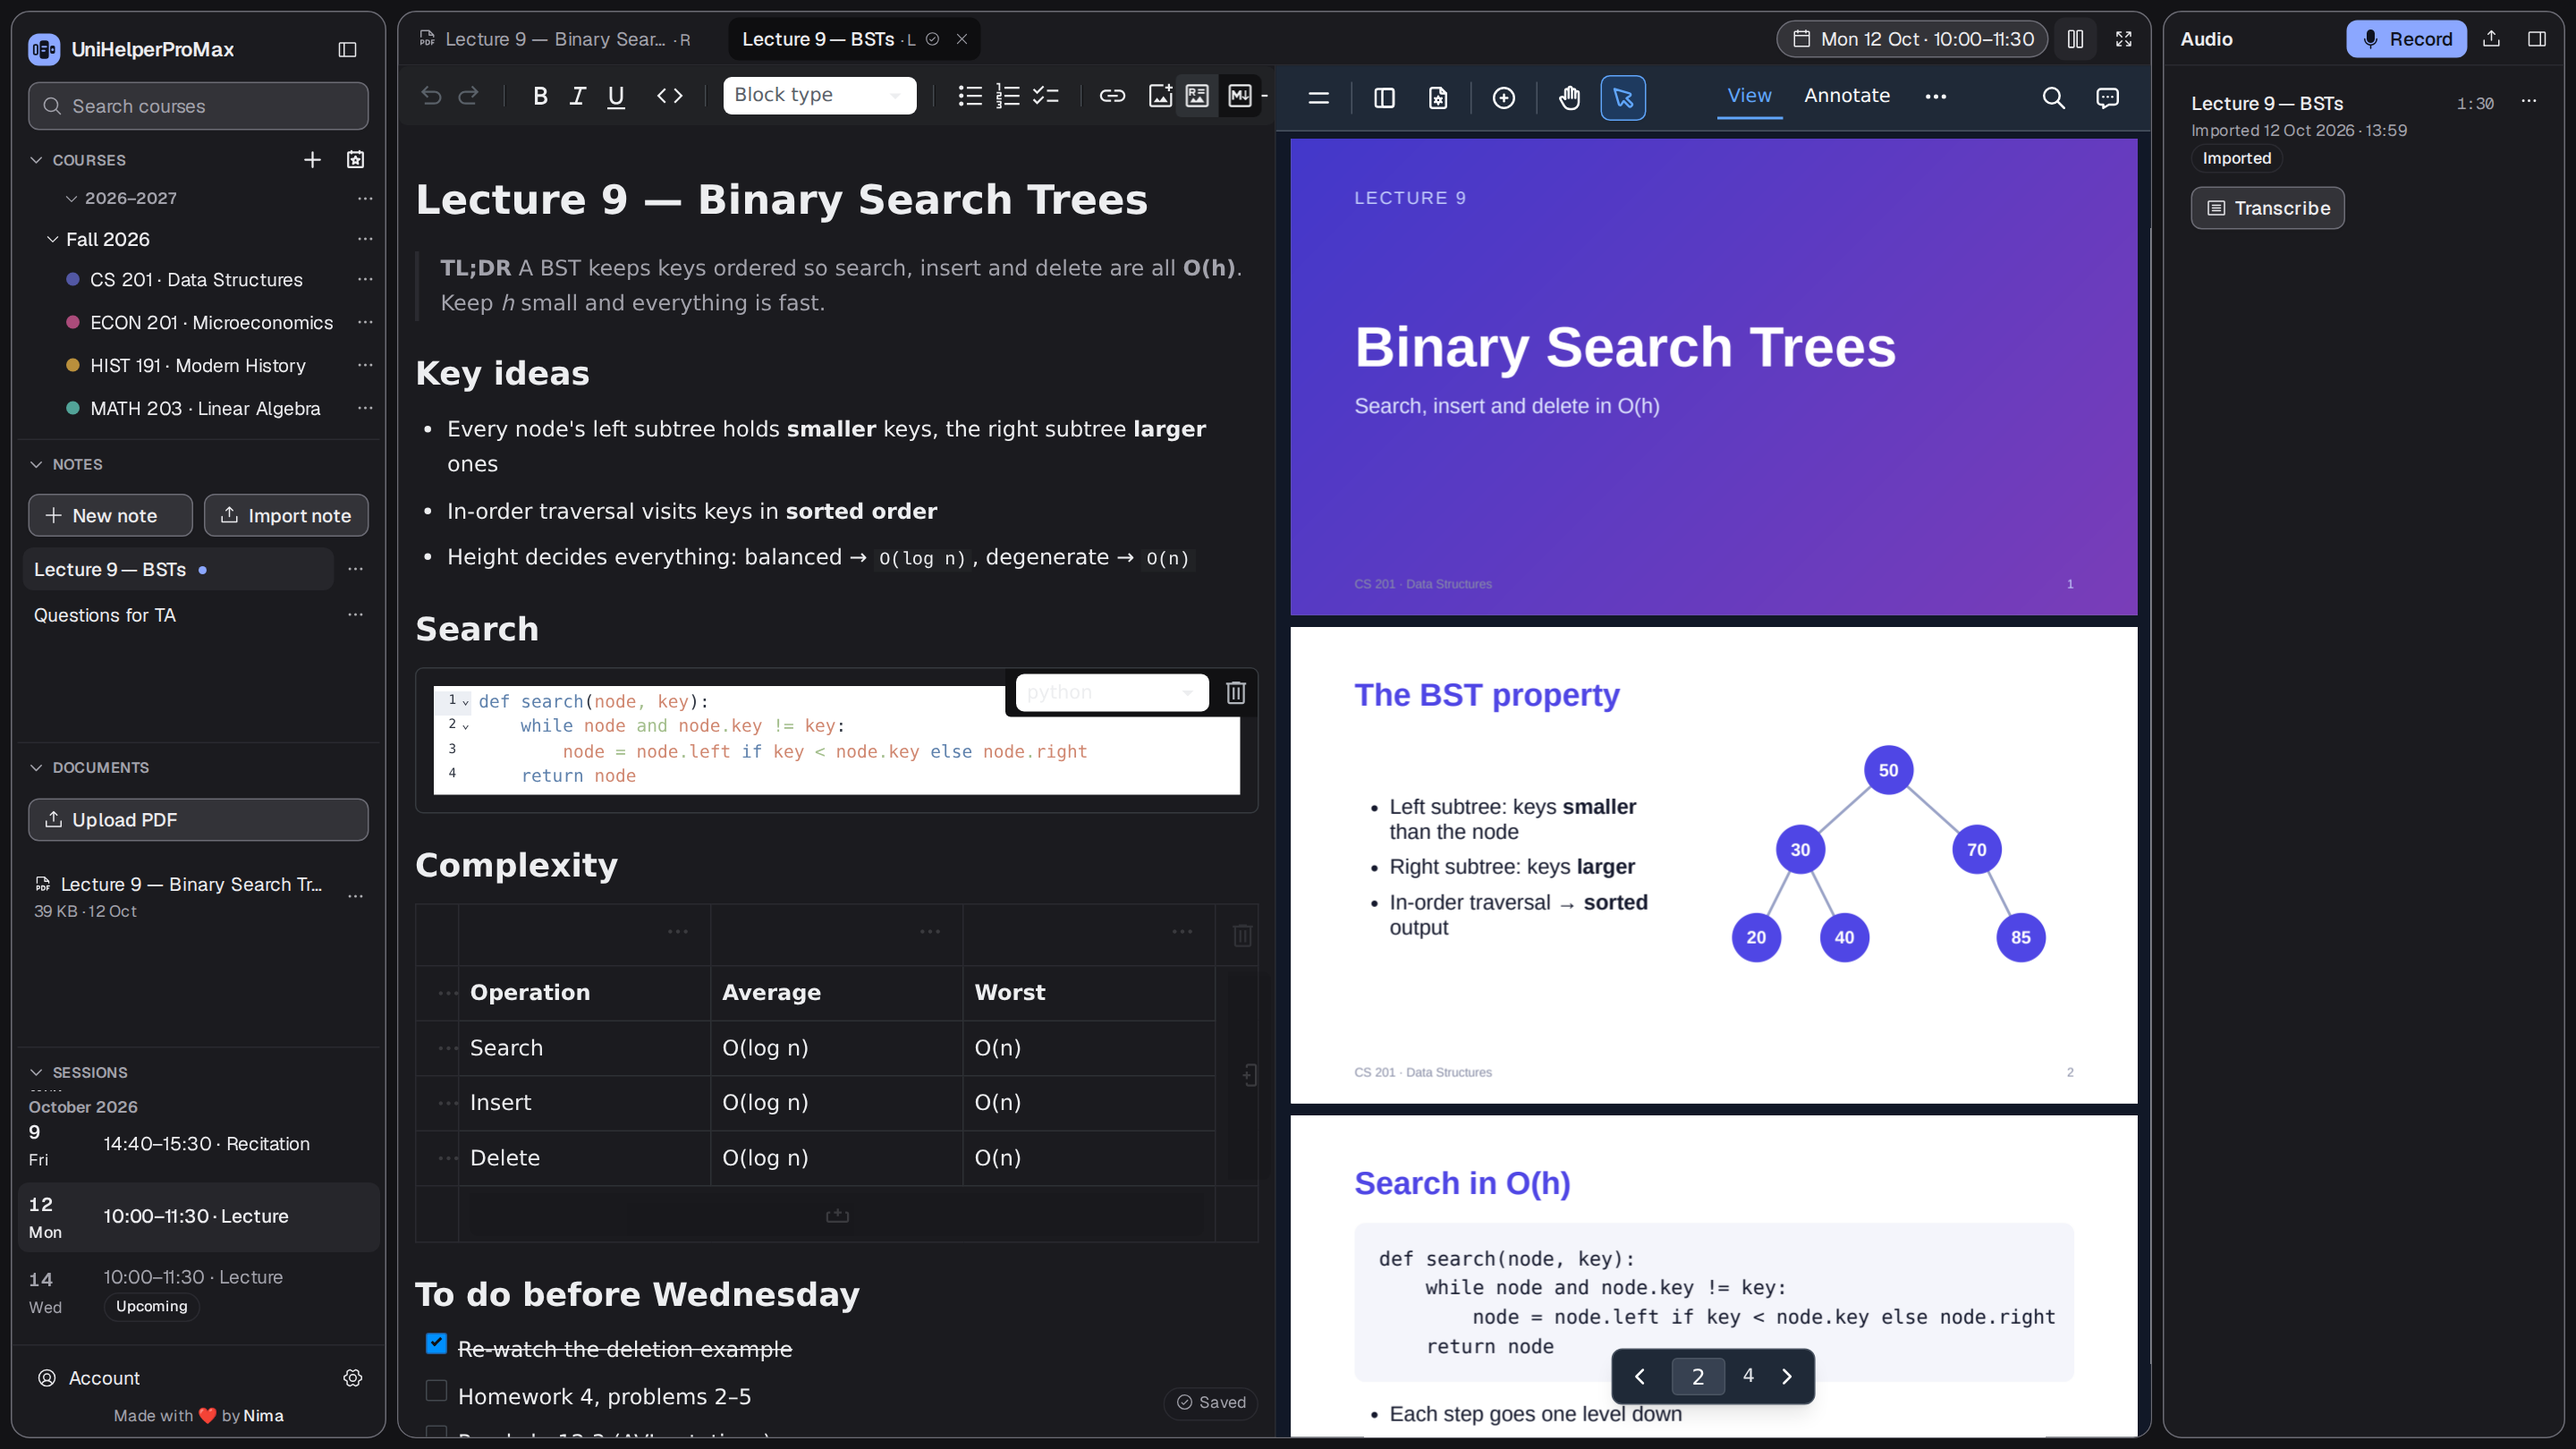
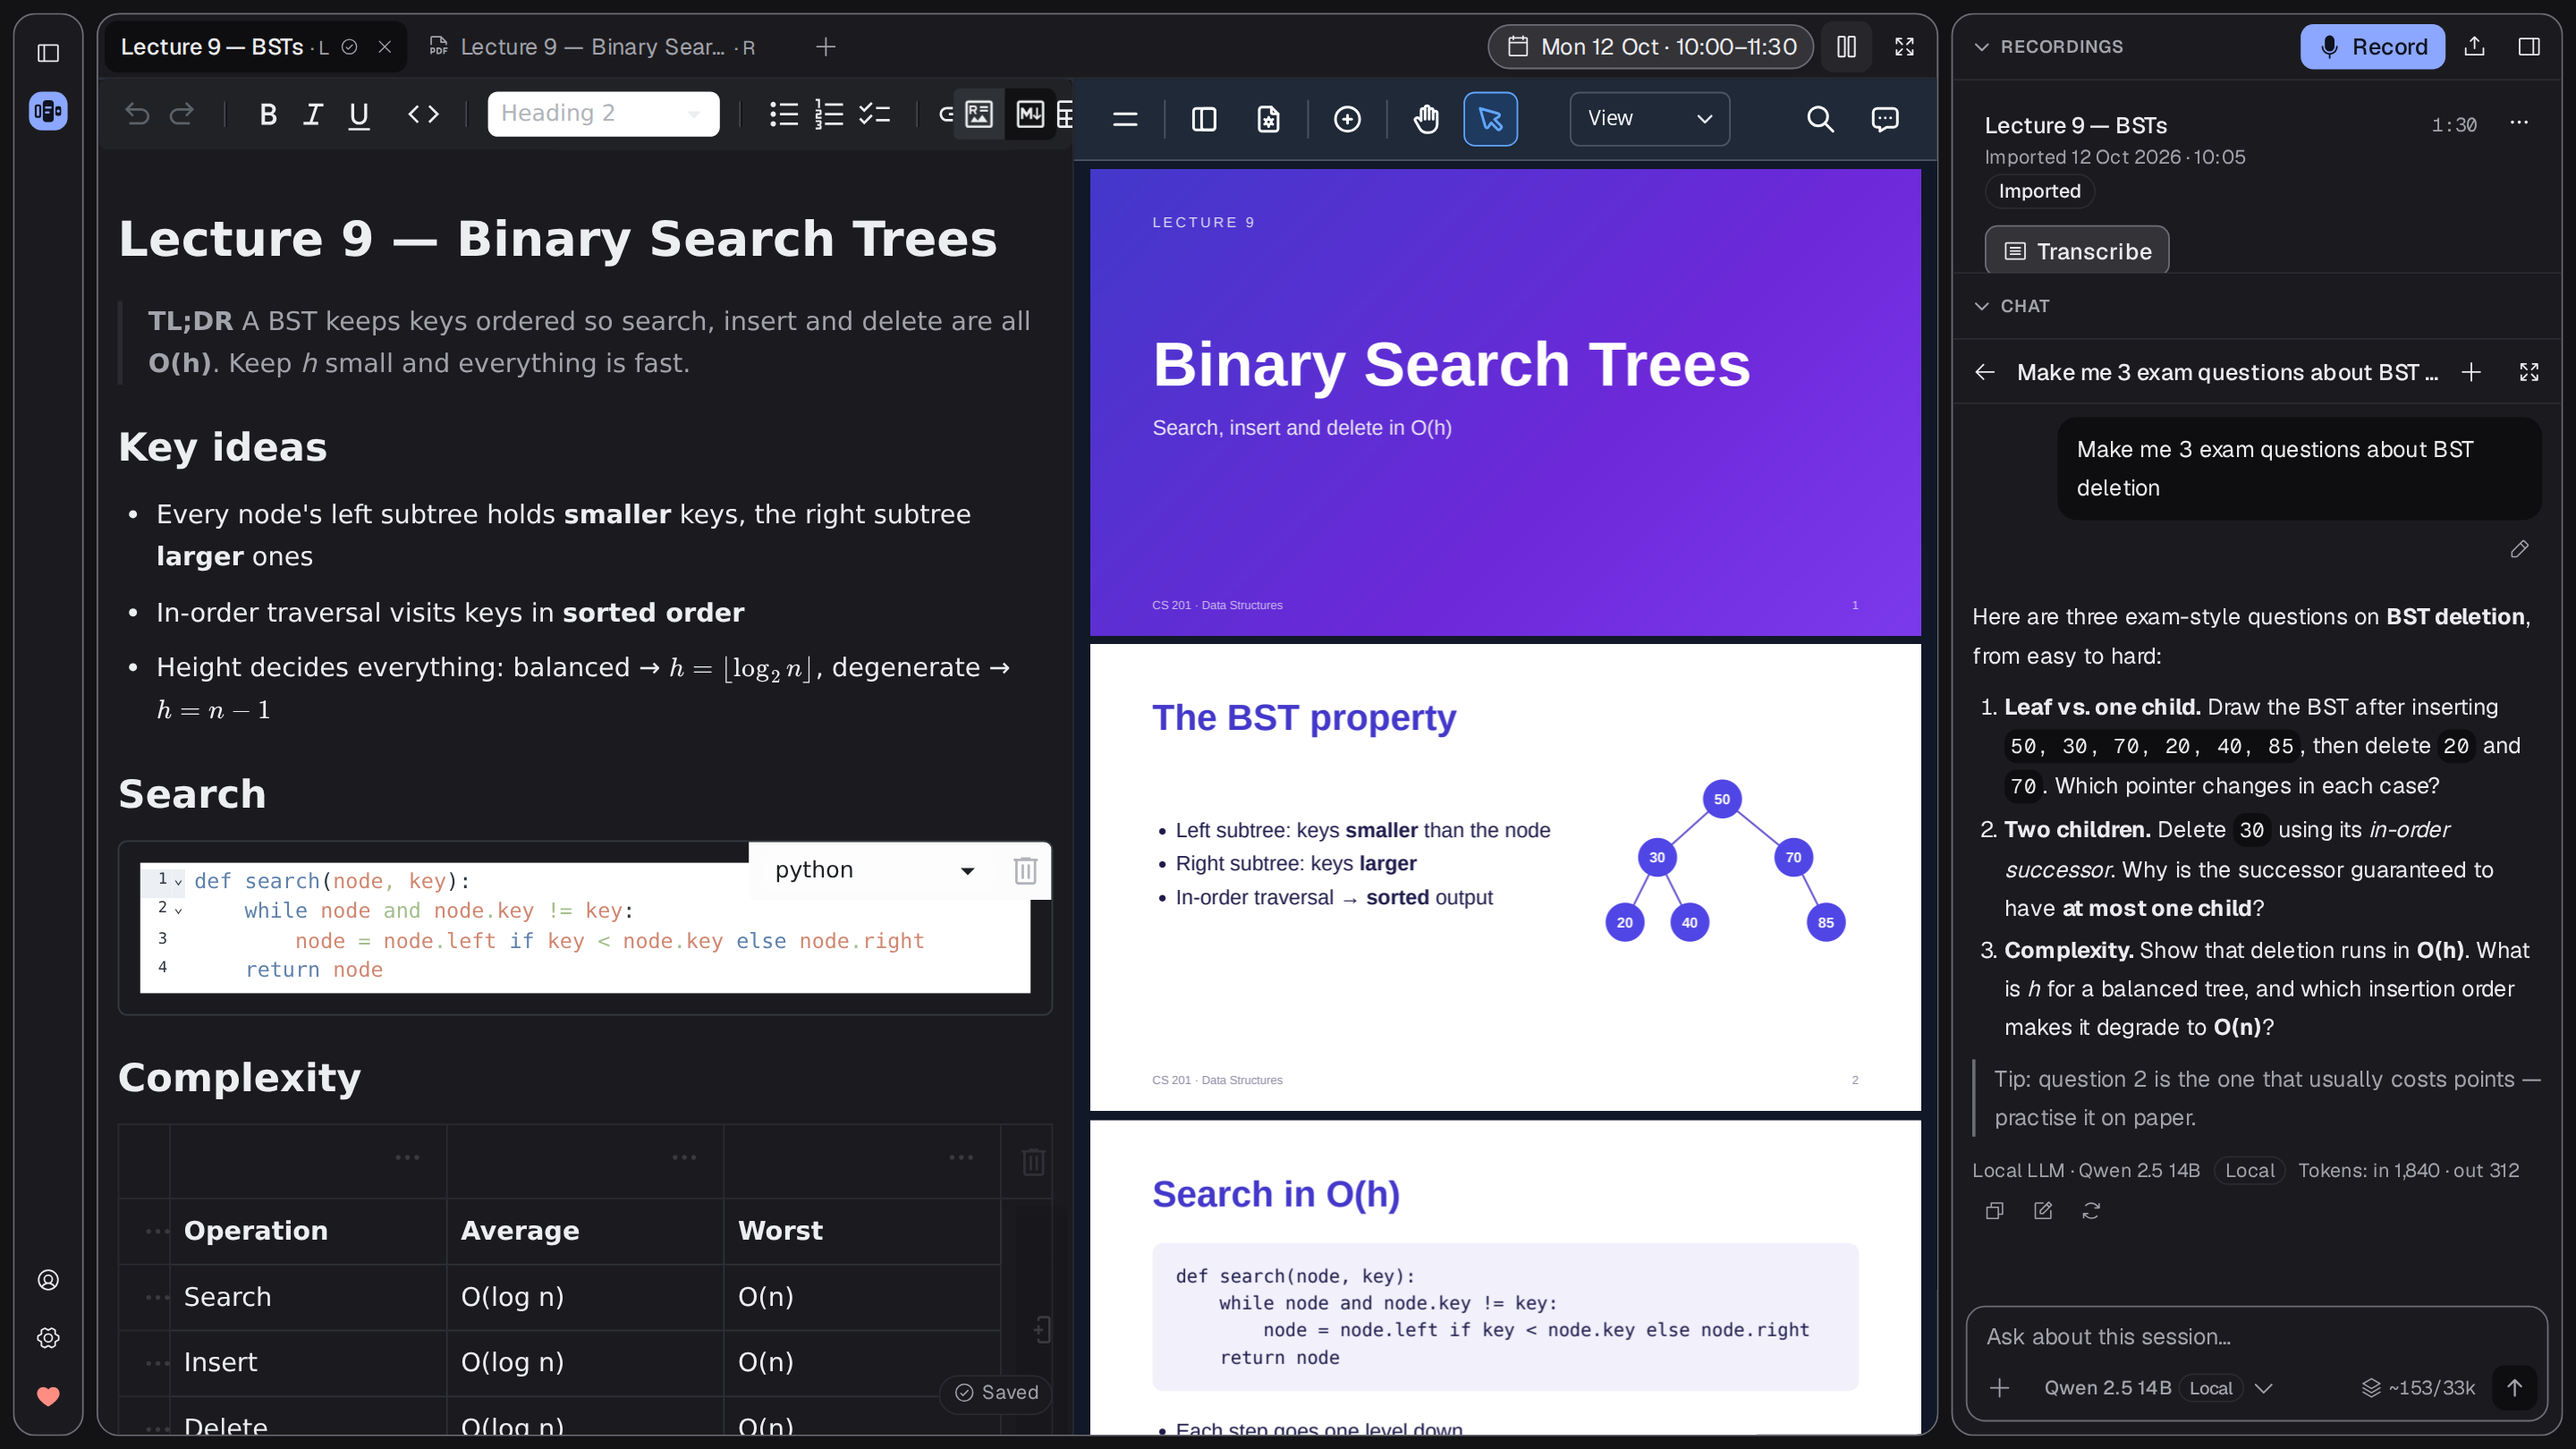
update the images for AI and kanban section

diff --git a/README.md b/README.md
@@ -31,9 +31,9 @@ and stored as plain files you own.
 **[Your data](#your-data)** ·
 **[License](#license)**
 
-<img src="docs/screenshots/workspace-split.png" alt="Lecture notes next to the lecture slides in split view, with the recording in the audio panel" width="100%">
+<img src="docs/screenshots/workspace-split.png" alt="Lecture notes next to the lecture slides in split view, with the recording and an AI chat in the side panel" width="100%">
 
-<sub>Lecture 9: notes on the left, the professor's slides on the right, the recording on the side.</sub>
+<sub>Lecture 9: notes on the left, the professor's slides in the middle, the recording and an AI chat on the side.</sub>
 
 </div>
 
@@ -110,7 +110,7 @@ Every course gets its own colour, a red line marks the current time, and exams o
 with their own marker. Switch between day, week and month, or import your existing timetable from
 Google Calendar, Apple Calendar or Outlook (`.ics`).
 
-<img src="docs/screenshots/calendar-week.png" alt="Week view with colour-coded classes and events" width="100%">
+<img src="docs/screenshots/calendar-week.png" alt="Week view with colour-coded classes and events next to the task board" width="100%">
 
 ### ⚡ Draw a study session straight onto the calendar
 
@@ -128,13 +128,16 @@ description and quick notes. Turn an exam or a seminar into a task with **Add to
 switch on **Show tasks** to see due dates on the calendar. A task never needs a date, a course or
 a place on the calendar.
 
+<img src="docs/screenshots/kanban.png" alt="Task board with To do, In progress and Done columns, course labels, due dates and checklist progress" width="100%">
+
 ### 📝 Notes that look as good as they read
 
-A live Markdown editor with headings, tables, syntax-highlighted code and to-do lists. Each note is
+A live Markdown editor with headings, tables, syntax-highlighted code, to-do lists, LaTeX math and
+Mermaid diagrams. Each note is
 a plain `.md` file in that class's folder, so you can also open it in VS Code, Obsidian or any
 other editor.
 
-<img src="docs/screenshots/notes.png" alt="Markdown note with headings, a code block and a table" width="100%">
+<img src="docs/screenshots/notes.png" alt="Markdown note with LaTeX math, a Mermaid diagram, a table and a code block" width="100%">
 
 ### 🎙 Record now, read later
 
@@ -151,6 +154,8 @@ Every class session has its own chat. Attach today's notes, the slides, a photo 
 or the recording, and ask "explain slide 14 again" or "make me 10 exam questions from this". Use
 your own key for OpenAI, Anthropic or Gemini, or run a model on your own computer with Ollama or
 LM Studio. Each chat is saved next to your notes as a readable `.md` file.
+
+<img src="docs/screenshots/ai-chat.png" alt="AI chat opened as a tab beside the lecture slides, with the note and PDF attached and a formatted answer with code" width="100%">
 
 ### 🎨 Light, dark, or something with more personality
 
